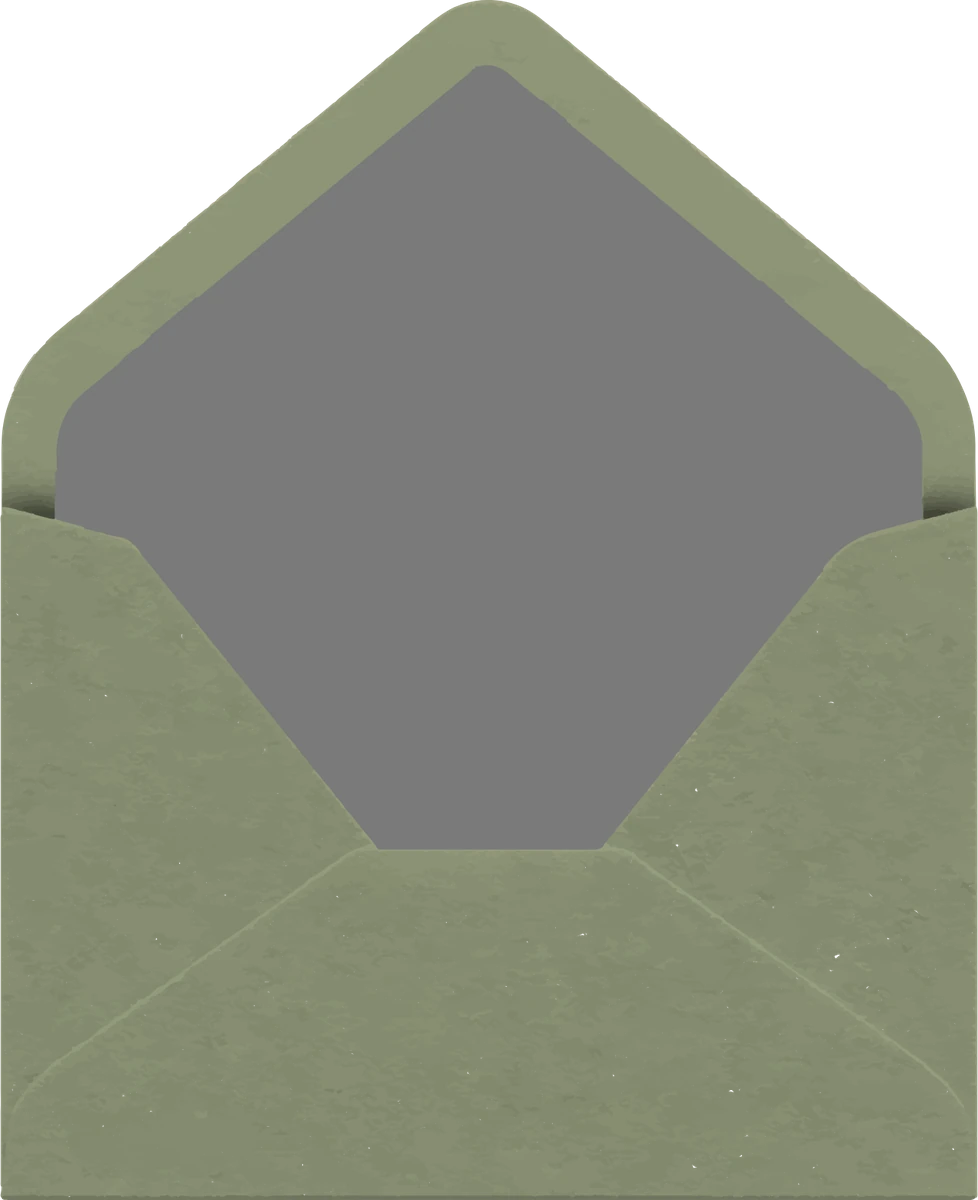
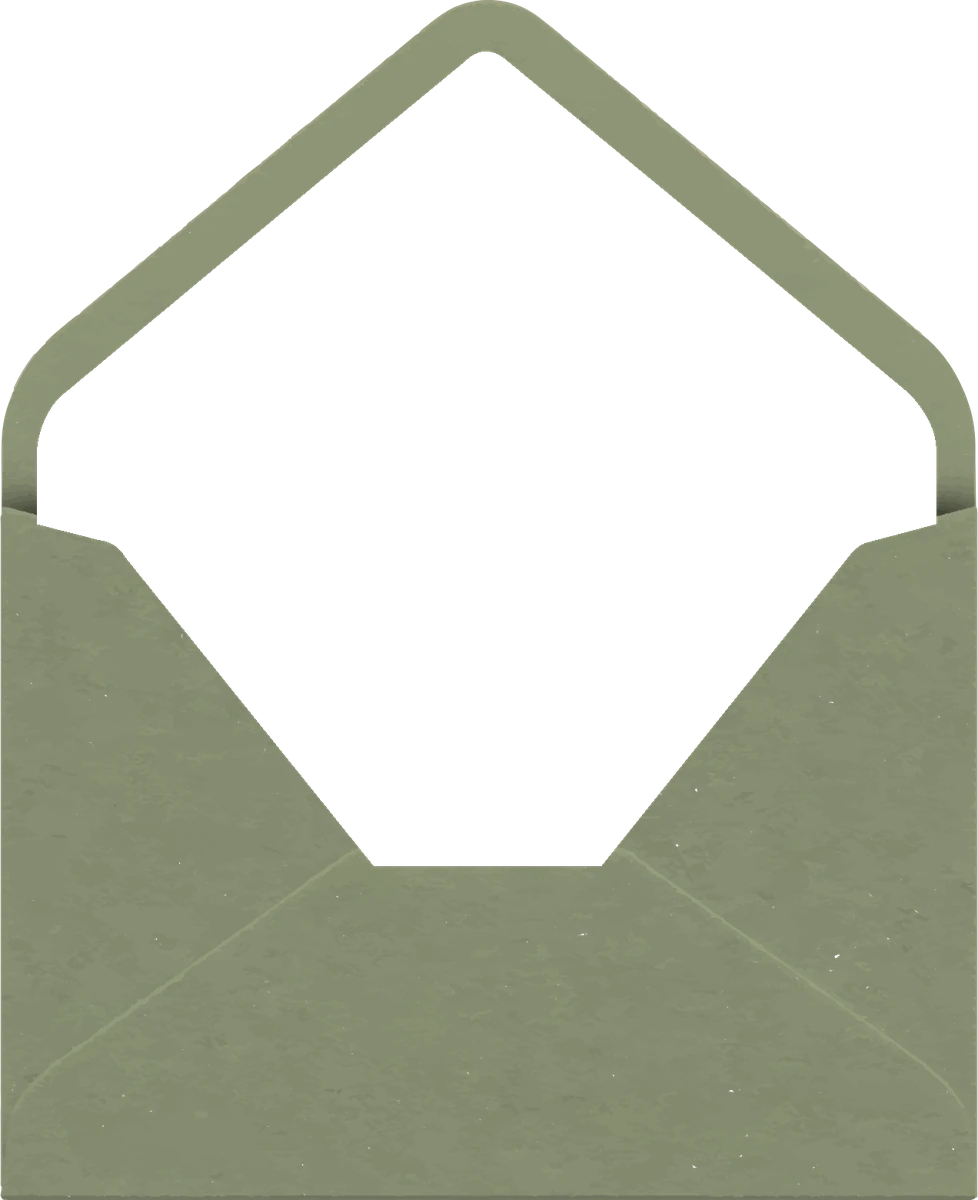
Fit the couple's cover photo into the envelope liner
Confirmed: the original file has a layer named id="fotografia" marking
exactly where the photo goes — a pentagon, not a rectangle, matching the
envelope's V-shaped fold.

Rendered that layer in isolation to get a precise mask, then used it to
punch a transparent hole into envelope-aberto (replacing its original
solid green fill) instead of approximating the shape by hand. The photo
now sits behind that hole in a plain rectangle; the envelope's own
artwork does the clipping, fold line included, no CSS clip-path needed.

Source: content.hero.main_image_url — the same cover photo field every
other template already uses, so it needs no new dashboard field.

diff --git a/app/[locale]/templates/envelope-01/page.tsx b/app/[locale]/templates/envelope-01/page.tsx
@@ -21,6 +21,11 @@ const CANVAS_H = 207;
 const POLAROID_PHOTO = { left: 6.63, top: 5.5, width: 87.43, height: 72.92 };
 const ARCO_PHOTO = { left: 46.2, top: 54.9, width: 28.4, height: 21.1 };
 
+// Forro do envelope aberto: zona marcada pelo próprio designer no ficheiro
+// original (camada "fotografia"), não estimada — localizada por render
+// isolado dessa camada e depois medida em pixel no ficheiro final.
+const ENVELOPE_PHOTO = { left: 5.62, top: 5.42, width: 88.75, height: 65.42 };
+
 // O corpo do arco começa a 21% do ficheiro (as flores ficam à esquerda dele),
 // por isso o texto tem de ser centrado nessa zona e não no elemento inteiro.
 const ARCO_BODY_INSET = 21;
@@ -99,6 +104,10 @@ export default function EnvelopeTemplate({ data }: { data: any; params?: any }) 
     (u: string) => u && u.trim() !== ""
   );
   const photoAt = (i: number) => photos[i % (photos.length || 1)] || "";
+
+  // Foto de capa escolhida no separador "Hero" do painel — é a que entra no
+  // forro do envelope aberto.
+  const coverPhoto: string = content.hero?.main_image_url || "";
 
   return (
     <div className="w-full min-h-screen bg-[#FDFCF9] font-sans overflow-x-hidden">
@@ -185,8 +194,35 @@ export default function EnvelopeTemplate({ data }: { data: any; params?: any }) 
                 containerType: "inline-size",
               }}
             >
-              {/* Envelope aberto */}
-              <img src={`${EL}/envelope-aberto.webp`} alt="" style={pieceStyle(PIECES.envelopeAberto)} className="select-none" draggable={false} />
+              {/* Envelope aberto — o forro é a foto de capa do casal. O
+                  ficheiro tem um buraco recortado exatamente na forma do
+                  forro (a camada "fotografia" do desenho original), por
+                  isso a foto colocada por baixo, em posição retangular,
+                  aparece já recortada nessa forma pelo próprio desenho. */}
+              <div style={pieceStyle(PIECES.envelopeAberto)}>
+                <div className="relative w-full h-auto" style={{ aspectRatio: "978 / 1200" }}>
+                  {coverPhoto && (
+                    <img
+                      src={coverPhoto}
+                      alt=""
+                      className="absolute object-cover select-none"
+                      draggable={false}
+                      style={{
+                        left: `${ENVELOPE_PHOTO.left}%`,
+                        top: `${ENVELOPE_PHOTO.top}%`,
+                        width: `${ENVELOPE_PHOTO.width}%`,
+                        height: `${ENVELOPE_PHOTO.height}%`,
+                      }}
+                    />
+                  )}
+                  <img
+                    src={`${EL}/envelope-aberto.webp`}
+                    alt=""
+                    className="relative w-full h-full select-none"
+                    draggable={false}
+                  />
+                </div>
+              </div>
 
               {/* Moldura com os nomes, data e local */}
               <div style={pieceStyle(PIECES.molduraNomes)}>

diff --git a/app/[locale]/preview/envelope-01/page.tsx b/app/[locale]/preview/envelope-01/page.tsx
@@ -16,6 +16,7 @@ const DEMO_DATA = {
         text_above_names: "Recebeu um convite de",
         label_intro: "Juntem-se a nós no casamento de",
         location: "Lago de Como, Itália",
+        main_image_url: "/features/guestbook/04-casal-em-casa.jpg",
       },
       gallery: {
         images_urls: [

diff --git a/public/envelope-01/elementos/LEIA-ME.md b/public/envelope-01/elementos/LEIA-ME.md
@@ -22,6 +22,15 @@ Medidas diretamente nos ficheiros e fixadas em
 
 - **Polaróide** — a área cinzenta: `left 6.63%, top 5.5%, 87.43% × 72.92%`
 - **Arco** — derivada da maquete: `left 46.2%, top 54.9%, 28.4% × 21.1%`
+- **Envelope aberto** (forro = foto de capa, `hero.main_image_url`) —
+  `left 5.62%, top 5.42%, 88.75% × 65.42%`. Ao contrário das outras, esta
+  não foi medida por cor: o ficheiro original tinha uma camada com
+  `id="fotografia"` a marcar exatamente essa forma (um pentágono, não um
+  retângulo). Renderizou-se essa camada isolada para obter uma máscara,
+  usou-se a máscara para abrir um buraco transparente no `envelope-aberto`
+  (em vez do preenchimento verde original), e a foto entra por baixo desse
+  buraco — fica recortada na forma exata do forro, vinco central incluído,
+  sem precisar de `clip-path` nenhum em CSS.
 
 O corpo do arco começa a **21%** da largura do ficheiro (as flores ficam à
 esquerda dele), por isso o texto é centrado nessa zona e não no elemento
